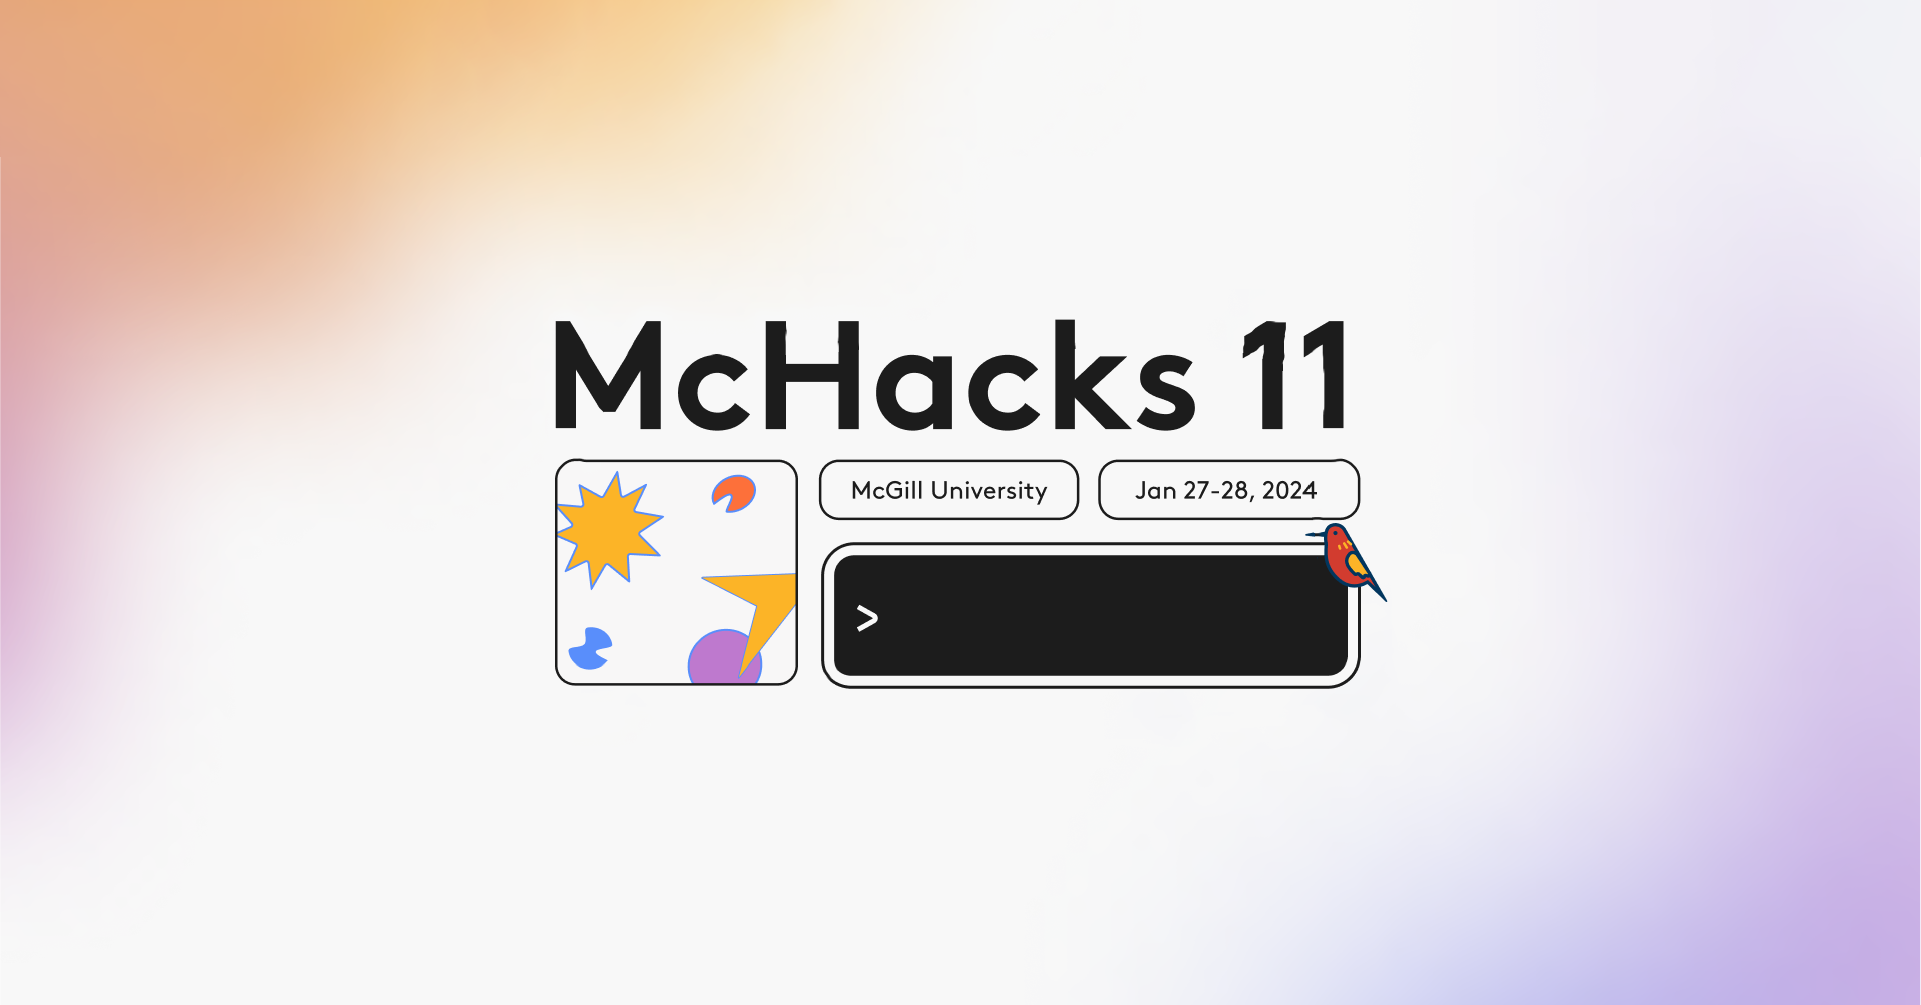
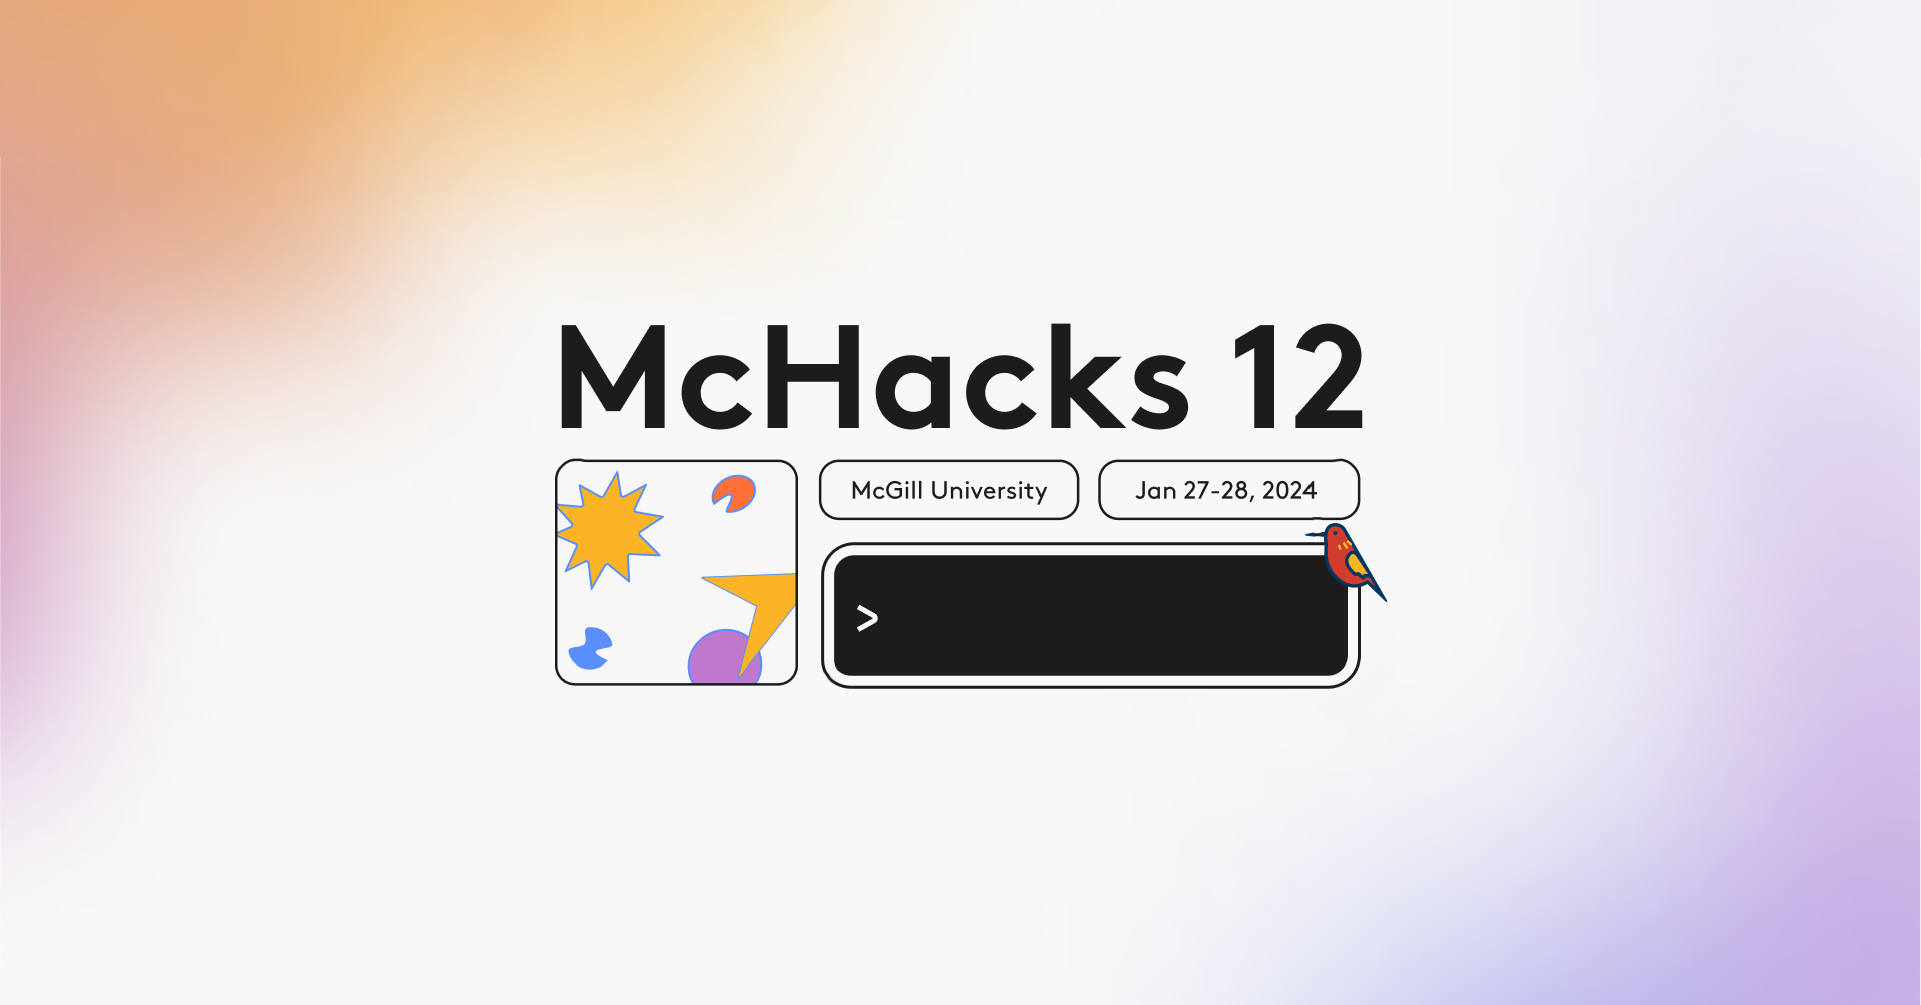
Fixed hero spacing and SEO metadata

Changed region(s): [[0.4685, 0.3085, 0.7184, 0.4318], [0.2811, 0.3085, 0.406, 0.4318]]

diff --git a/src/components/FAQ/FAQ.jsx b/src/components/FAQ/FAQ.jsx
@@ -18,9 +18,8 @@ const FAQ = ({ scrollRef }) => (
             </Question>
 
             <Question question="When is McHacks?">
-              This year, we'll be running McHacks for 24 hours! It will start on
-              Saturday at 8am and end on Sunday at 4pm Eastern time on the
-              weekend of January 27-28.
+              This year, we'll be running McHacks for 24 hours! It will be on the
+              weekend of January 25-26.
             </Question>
 
             <Question question="How can I participate in McHacks?">

diff --git a/src/components/Hero/Hero.jsx b/src/components/Hero/Hero.jsx
@@ -6,7 +6,7 @@ import Martlet from "../../assets/images/designs/hero-martlet.svg"
 import Button from "./Button"
 import HeroStyles from "./HeroStyles"
 import SignUpForm from "./SignUpForm"
-import McHacksImg from "../../assets/images/designs/mchacks-12-hero-logo.svg"
+import McHacksImg from "../../assets/images/designs/mchacks12-hero-logo.svg"
 
 const apply = () => {
   window.location = "https://app.mchacks.ca/"

diff --git a/src/components/SEO/SEO.jsx b/src/components/SEO/SEO.jsx
@@ -32,7 +32,7 @@ SEO.defaultProps = {
     "McHacks 12",
   ],
   description:
-    "Canada’s original university hackathon. 24 hour long event of innovation, coding & mentorship happening January 27th - 28th at McGill University",
+    "Canada’s original university hackathon. 24 hour long event of innovation, coding & mentorship happening January 25th - 26th at McGill University",
   title: "McHacks",
 }
 
